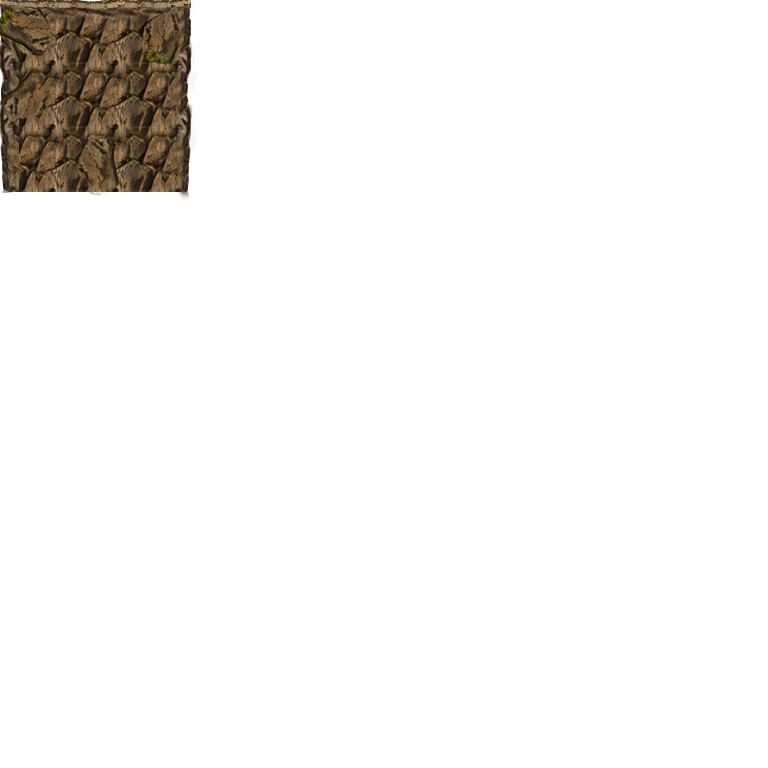
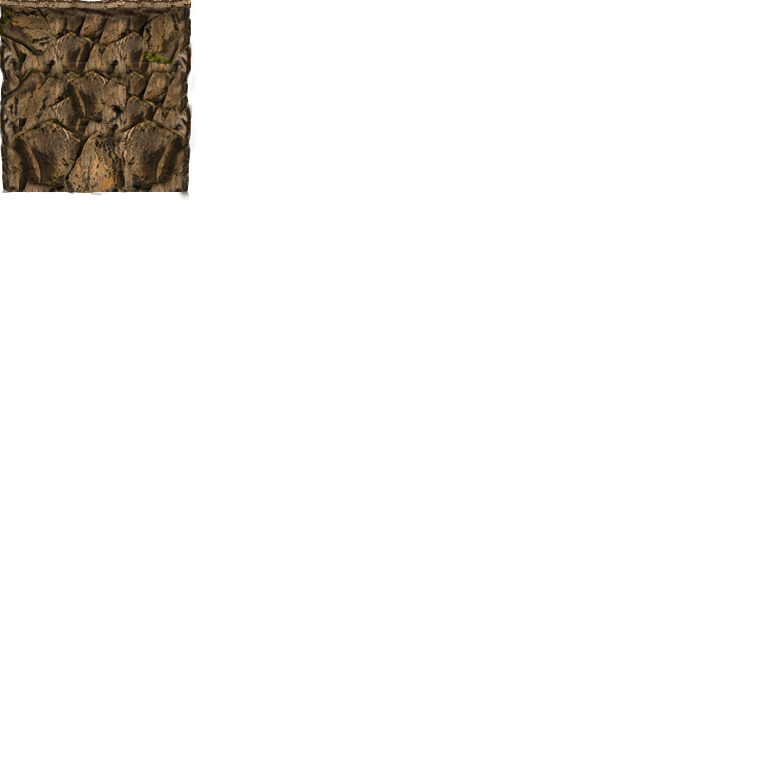
better tiles

Changed region(s): [[0.0, 0.0938, 0.25, 0.25], [0.0, 0.0, 0.25, 0.0312]]

diff --git a/levelv02.js b/levelv02.js
@@ -18,7 +18,7 @@ function level(level){
       [0,0,0,0,0,0,0,0,0,0,0,0,0,0,0,0,0,0,0,0],
       [0,0,0,0,0,0,0,0,0,0,0,0,0,0,0,0,0,0,0,1],
       [0,0,0,0,0,0,0,0,0,0,0,0,0,0,0,0,0,0,9,2],
-      [0,0,0,0,0,0,0,0,0,0,0,0,0,0,0,0,2,5,5,5],
+      [0,0,0,0,0,0,0,0,0,0,0,0,0,0,0,0,1,4,4,4],
       [0,0,0,0,0,0,0,0,0,0,0,0,0,0,0,0,2,5,5,5],
       [0,0,0,0,0,0,0,0,0,0,0,0,0,0,0,0,2,5,5,5],
       [0,0,0,0,0,0,0,0,0,0,0,0,0,0,0,0,3,6,6,6],
